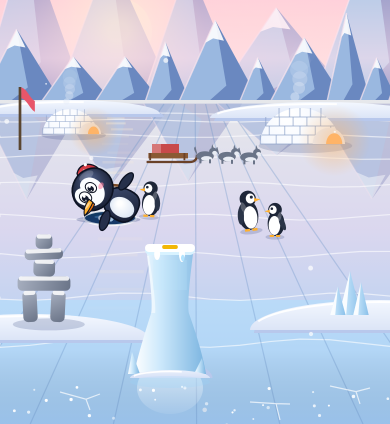
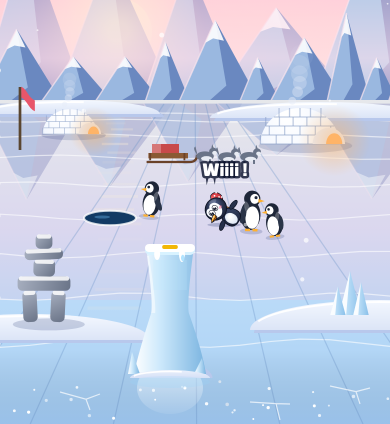
Monde 5 : le pingouin secret passe au loin, à la taille de ceux du fond
Claude-Session: https://claude.ai/code/session_01NEC92qwxswvqqiEaD4C6hh

diff --git a/design/brouillons/2026-11-19-banquise-maquettes.html b/design/brouillons/2026-11-19-banquise-maquettes.html
@@ -652,19 +652,19 @@ var pingu = function (x, y, s, t, o = {}) {
 function sfxTxt(txt, x, y, k, col, size) { yTxt(txt, x, y, k, col, size); }
 /* séquence du secret : il marche, 1re touche il se retourne, 2e il sursaute, 3e il glisse sur le ventre jusqu'au trou et plonge */
 function penguinSecret(t) {
-  const T = t % 360, HX = 110, HY = HZ + 118, tap = (k, x, y) => { if (k < 0 || k > 1) return; c.save(); c.globalAlpha = 1 - k; c.strokeStyle = '#ffffff'; c.lineWidth = 3; c.beginPath(); c.arc(x, y, 10 + k * 26, 0, TAU); c.stroke(); c.restore(); };
-  let px = 300, py = 742, pose = 'walk', dir = -1, sc = 1.25, bag = true;
-  if (T < 60) { px = 330 - T * .6; }
-  else if (T < 110) { px = 294; pose = 'turn'; tap((T - 60) / 20, px, py - 50); yTxt('?', px + 6, py - 110, (T - 62) / 40, '#ffffff', 28); }
-  else if (T < 160) { px = 294; pose = 'jump'; py = 742 - Math.sin(Math.min(1, (T - 110) / 20) * Math.PI) * 30; tap((T - 110) / 20, px, py - 50); yTxt('!', px + 6, py - 110, (T - 112) / 40, '#ffd23f', 34); }
-  else if (T < 240) { const q = (T - 160) / 80, e = q * q * (3 - 2 * q); pose = 'slide'; px = 294 + (HX - 294) * e; py = 742 + (HY - 742) * e; sc = 1.25 - e * .45; tap((T - 160) / 20, 294, 692);
-    for (let k = 0; k < 4; k++) { const back = Math.max(0, e - k * .06); c.fillStyle = `rgba(255,255,255,${(.7 - k * .15).toFixed(3)})`; c.beginPath(); c.arc(294 + (HX - 294) * back + 20, 742 + (HY - 742) * back, 4 - k * .6, 0, TAU); c.fill(); }
-    yTxt('Wiiii !', px, py - 70, q, '#ffffff', 24); }
-  else { const q = (T - 240) / 120; px = HX; py = HY; if (q < .12) { pose = 'slide'; sc = .8 * (1 - q / .12); }
-    else sc = 0;
-    for (let n = 0; n < 12; n++) { const a = Math.PI + n / 11 * Math.PI, d = Math.min(1, q * 3) * 30; c.fillStyle = `rgba(200,235,255,${Math.max(0, 1 - q * 2.5).toFixed(3)})`; c.beginPath(); c.arc(HX + Math.cos(a) * d * 1.4, HY + Math.sin(a) * d * .8 - Math.sin(q * 6) * 10, 3.5, 0, TAU); c.fill(); }
-    for (let n = 0; n < 4; n++) { const qq = ((q * 2 + n / 4) % 1); c.strokeStyle = `rgba(255,255,255,${(.8 * (1 - qq)).toFixed(3)})`; c.lineWidth = 1.6; c.beginPath(); c.arc(HX + (n - 1.5) * 6, HY - qq * 26, 2 + qq * 3, 0, TAU); c.stroke(); }
-    yTxt('Plouf !', HX, HY - 60, q * 1.3, '#ffffff', 28); yTxt('Un passage secret…', W / 2, 420, (q - .3) * 1.4, '#ffd23f', 26); }
+  /* le pingouin passe sur la même ligne que ceux du fond : petit et discret */
+  const T = t % 360, HX = 110, HY = HZ + 118, PY = HZ + 130, S0 = .42, tap = (k, x, y) => { if (k < 0 || k > 1) return; c.save(); c.globalAlpha = 1 - k; c.strokeStyle = '#ffffff'; c.lineWidth = 2.5; c.beginPath(); c.arc(x, y, 6 + k * 18, 0, TAU); c.stroke(); c.restore(); };
+  let px = 340, py = PY, pose = 'walk', dir = -1, sc = S0;
+  if (T < 60) { px = 370 - T * .5; }
+  else if (T < 110) { px = 340; pose = 'turn'; tap((T - 60) / 20, px, py - 18); yTxt('?', px + 3, py - 44, (T - 62) / 40, '#ffffff', 20); }
+  else if (T < 160) { px = 340; pose = 'jump'; py = PY - Math.sin(Math.min(1, (T - 110) / 20) * Math.PI) * 12; tap((T - 110) / 20, px, py - 18); yTxt('!', px + 3, py - 46, (T - 112) / 40, '#ffd23f', 24); }
+  else if (T < 240) { const q = (T - 160) / 80, e = q * q * (3 - 2 * q); pose = 'slide'; px = 340 + (HX - 340) * e; py = PY + (HY - PY) * e; tap((T - 160) / 20, 340, PY - 18);
+    for (let k = 0; k < 4; k++) { const back = Math.max(0, e - k * .05); c.fillStyle = `rgba(255,255,255,${(.7 - k * .15).toFixed(3)})`; c.beginPath(); c.arc(340 + (HX - 340) * back + 9, PY + (HY - PY) * back, 2.2 - k * .3, 0, TAU); c.fill(); }
+    yTxt('Wiiii !', px, py - 30, q, '#ffffff', 18); }
+  else { const q = (T - 240) / 120; px = HX; py = HY; if (q < .12) { pose = 'slide'; sc = S0 * (1 - q / .12); } else sc = 0;
+    for (let n = 0; n < 12; n++) { const a = Math.PI + n / 11 * Math.PI, d = Math.min(1, q * 3) * 16; c.fillStyle = `rgba(200,235,255,${Math.max(0, 1 - q * 2.5).toFixed(3)})`; c.beginPath(); c.arc(HX + Math.cos(a) * d * 1.4, HY + Math.sin(a) * d * .8 - Math.sin(q * 6) * 6, 2.2, 0, TAU); c.fill(); }
+    for (let n = 0; n < 4; n++) { const qq = ((q * 2 + n / 4) % 1); c.strokeStyle = `rgba(255,255,255,${(.8 * (1 - qq)).toFixed(3)})`; c.lineWidth = 1.2; c.beginPath(); c.arc(HX + (n - 1.5) * 4, HY - qq * 16, 1.5 + qq * 2, 0, TAU); c.stroke(); }
+    yTxt('Plouf !', HX, HY - 34, q * 1.3, '#ffffff', 20); yTxt('Un passage secret…', W / 2, 420, (q - .3) * 1.4, '#ffd23f', 26); }
   if (sc > 0) pingu(px, py, sc, t, { pose, dir });
 }
 
